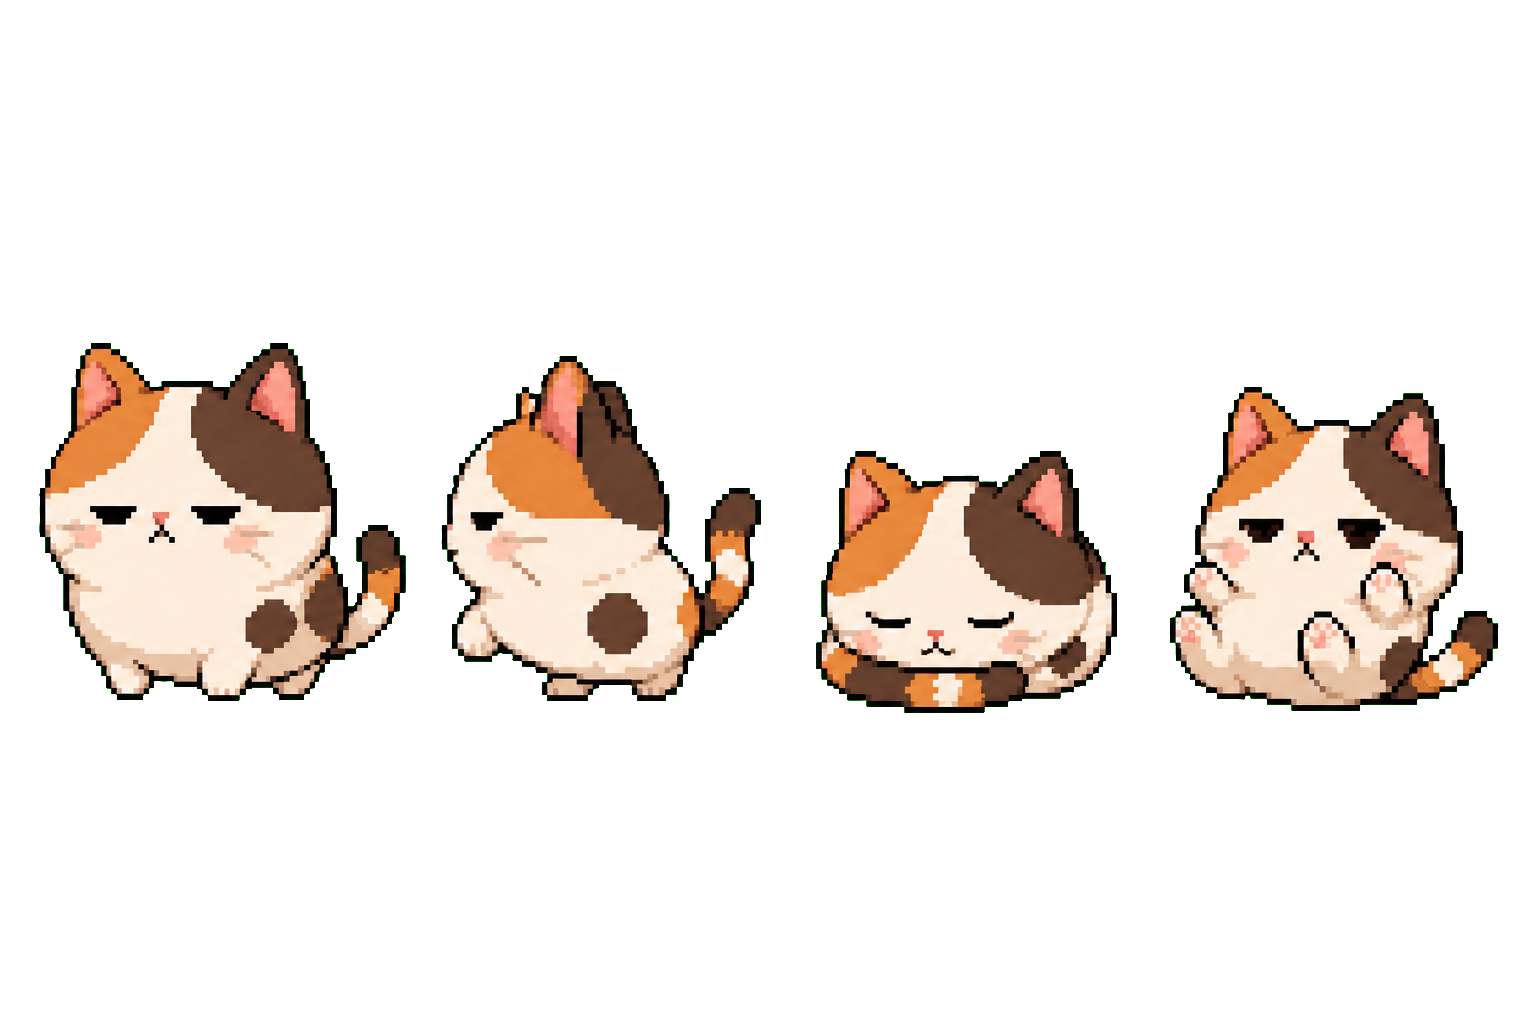
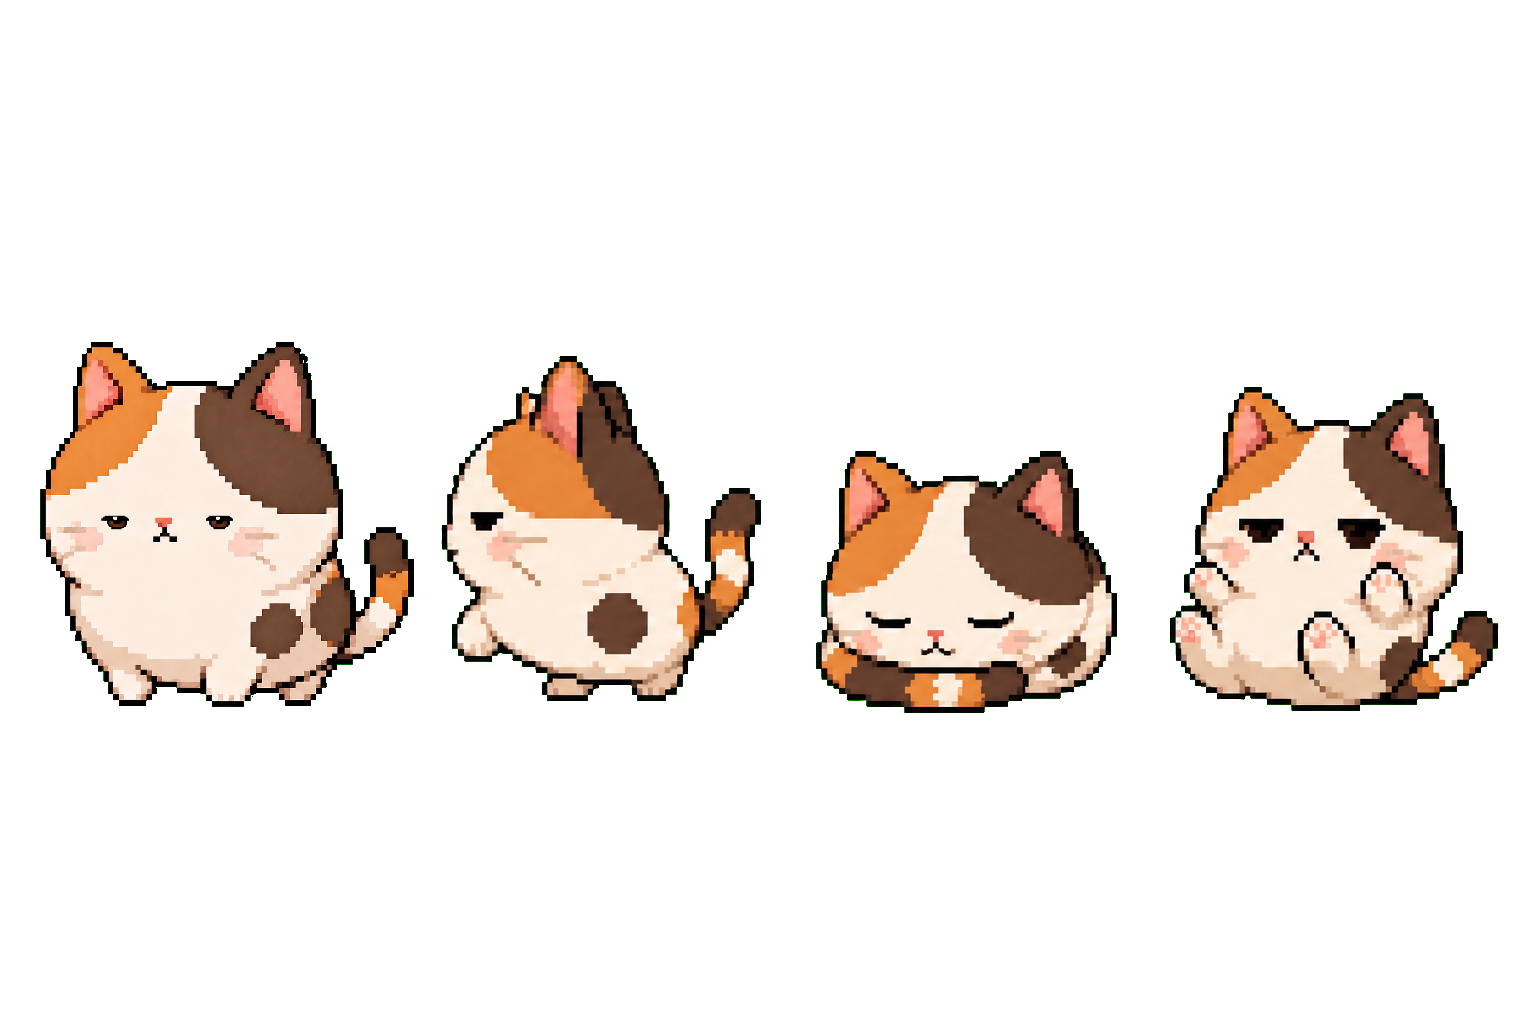
tune: make FatMochi the default mascot

Changed region(s): [[0.0312, 0.3438, 0.2812, 0.6875]]

diff --git a/Sources/RoamlingMac/RoamlingRuntime.swift b/Sources/RoamlingMac/RoamlingRuntime.swift
@@ -97,7 +97,7 @@ public final class RoamlingRuntime: NSObject, PetOverlayViewDelegate {
             DefaultsKey.avoidPointer: true,
             DefaultsKey.interactions: true,
             DefaultsKey.scale: 1.0,
-            DefaultsKey.builtInPet: BuiltInPetKind.mochi.rawValue
+            DefaultsKey.builtInPet: BuiltInPetKind.fatMochi.rawValue
         ])
         let runtimeTuning = Self.loadRuntimeTuning(defaults: defaults)
 
@@ -105,7 +105,7 @@ public final class RoamlingRuntime: NSObject, PetOverlayViewDelegate {
         let descriptors = catalog.discover()
         let selectedPath = defaults.string(forKey: DefaultsKey.petPackagePath)
         let selectedBuiltInPet = defaults.string(forKey: DefaultsKey.builtInPet)
-            .flatMap(BuiltInPetKind.init(rawValue:)) ?? .mochi
+            .flatMap(BuiltInPetKind.init(rawValue:)) ?? .fatMochi
         let initialAsset = Self.loadInitialAsset(
             descriptors: descriptors,
             selectedPath: selectedPath,

diff --git a/Tests/RoamlingLogicTests/PetLogicTests.swift b/Tests/RoamlingLogicTests/PetLogicTests.swift
@@ -57,6 +57,7 @@ func petLogicTests() -> [LogicTest] {
             try expect(pet.resolver.resolve(.sit)?.name == "idle")
         },
         LogicTest(name: "built-in mascot pose auditions load with semantic tracks") {
+            try expect(MascotPetFactory.make().manifest.displayName == "FatMochi")
             for kind in BuiltInPetKind.allCases {
                 let pet = MascotPetFactory.make(kind)
                 try expect(pet.manifest.displayName == kind.displayName)

diff --git a/Sources/RoamlingPet/MascotPetFactory.swift b/Sources/RoamlingPet/MascotPetFactory.swift
@@ -51,7 +51,7 @@ public enum MascotPetFactory {
         let scale: CGFloat
     }
 
-    public static func make(_ kind: BuiltInPetKind = .mochi) -> PetAsset {
+    public static func make(_ kind: BuiltInPetKind = .fatMochi) -> PetAsset {
         guard let sheet = loadSheet(named: kind.resourceName),
               let atlas = makeAtlas(from: sheet, kind: kind) else {
             return PlaceholderPetFactory.make()

diff --git a/Sources/RoamlingPet/Resources/BuiltInPets/README.md b/Sources/RoamlingPet/Resources/BuiltInPets/README.md
@@ -29,6 +29,10 @@ Core prompt, FatMochi:
 > caught/squished. Use a limited palette, crisp silhouette, no props, labels,
 > or extra animals.
 
+The final FatMochi idle revision changes only its expression direction: small,
+softly drooping half-open warm-brown eyes with tiny highlights replace the
+angry inward-slanting eyes, while the sleepy deadpan personality remains.
+
 The working chroma-key prompts changed only the background to a flat solid
 `#00FF00`; transparency was produced locally without network upload.
 

diff --git a/README.md b/README.md
@@ -73,7 +73,7 @@ $ROAMLING_PET_PATH
 
 `ROAMLING_PET_PATH` may point either to one package directory or to a directory
 containing packages. A package contains `pet.json` and the referenced PNG or
-WebP atlas. Mochi is the default. FatMochi and discovered Petdex-compatible
+WebP atlas. FatMochi is the default. Mochi and discovered Petdex-compatible
 packages can be selected from the menu, and the choice persists across launches.
 
 ## Repository guide
